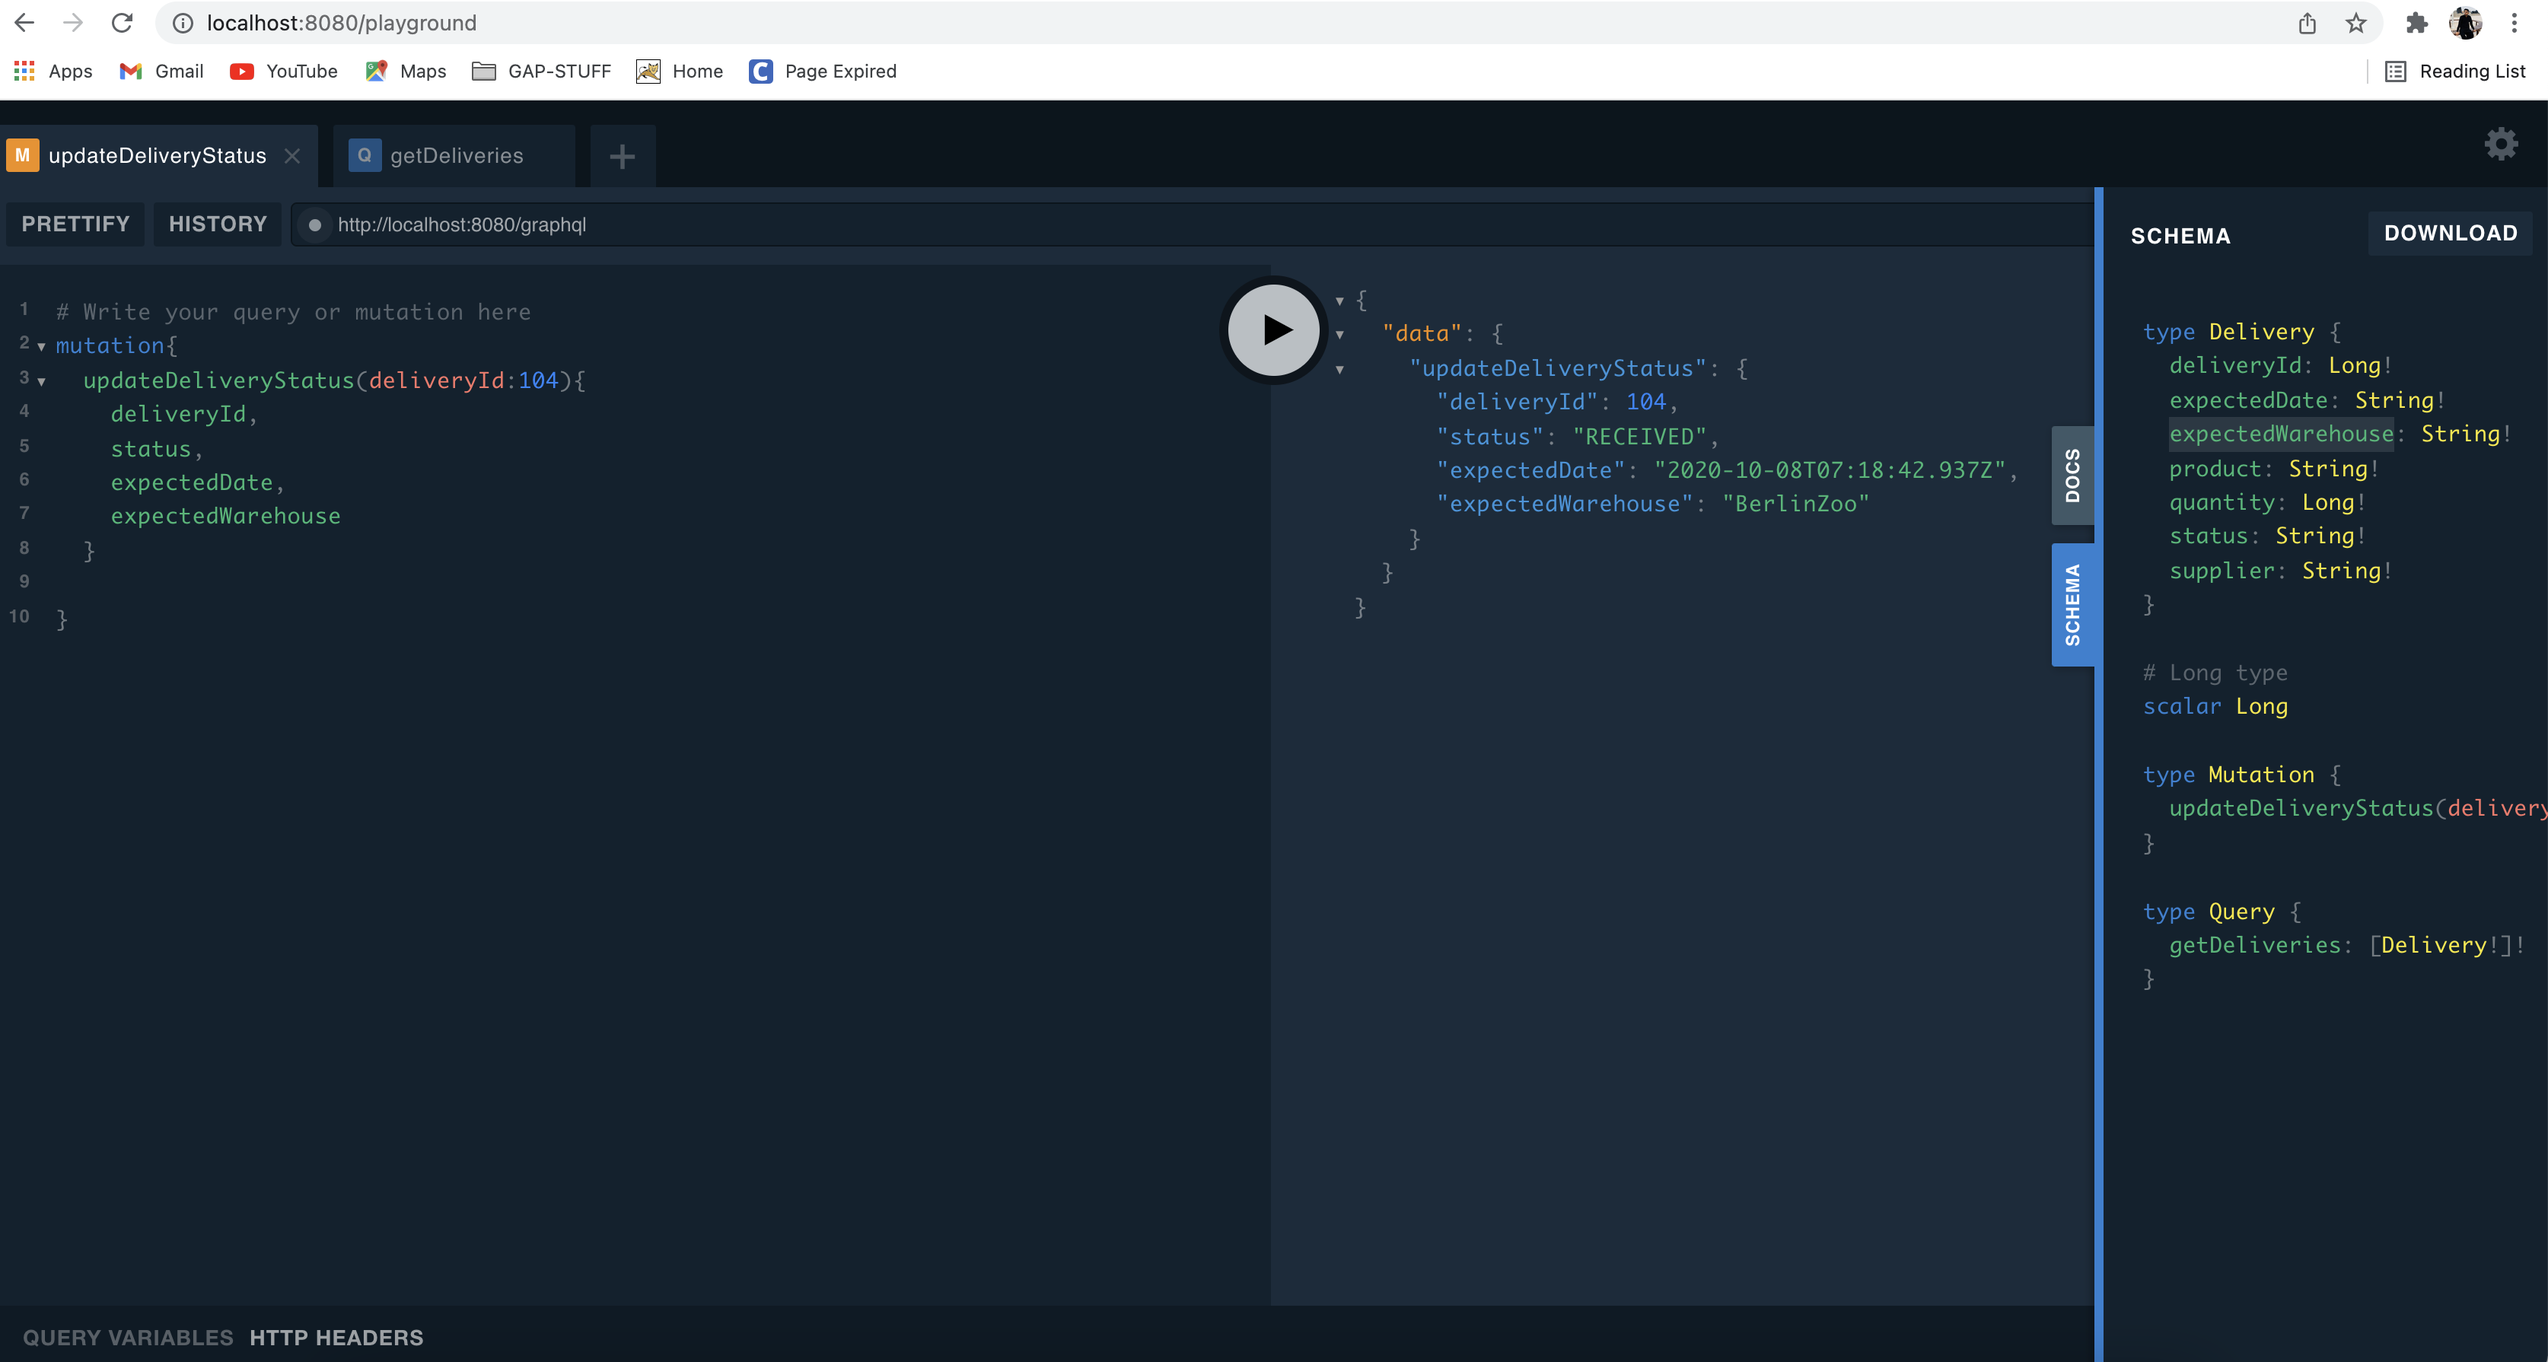
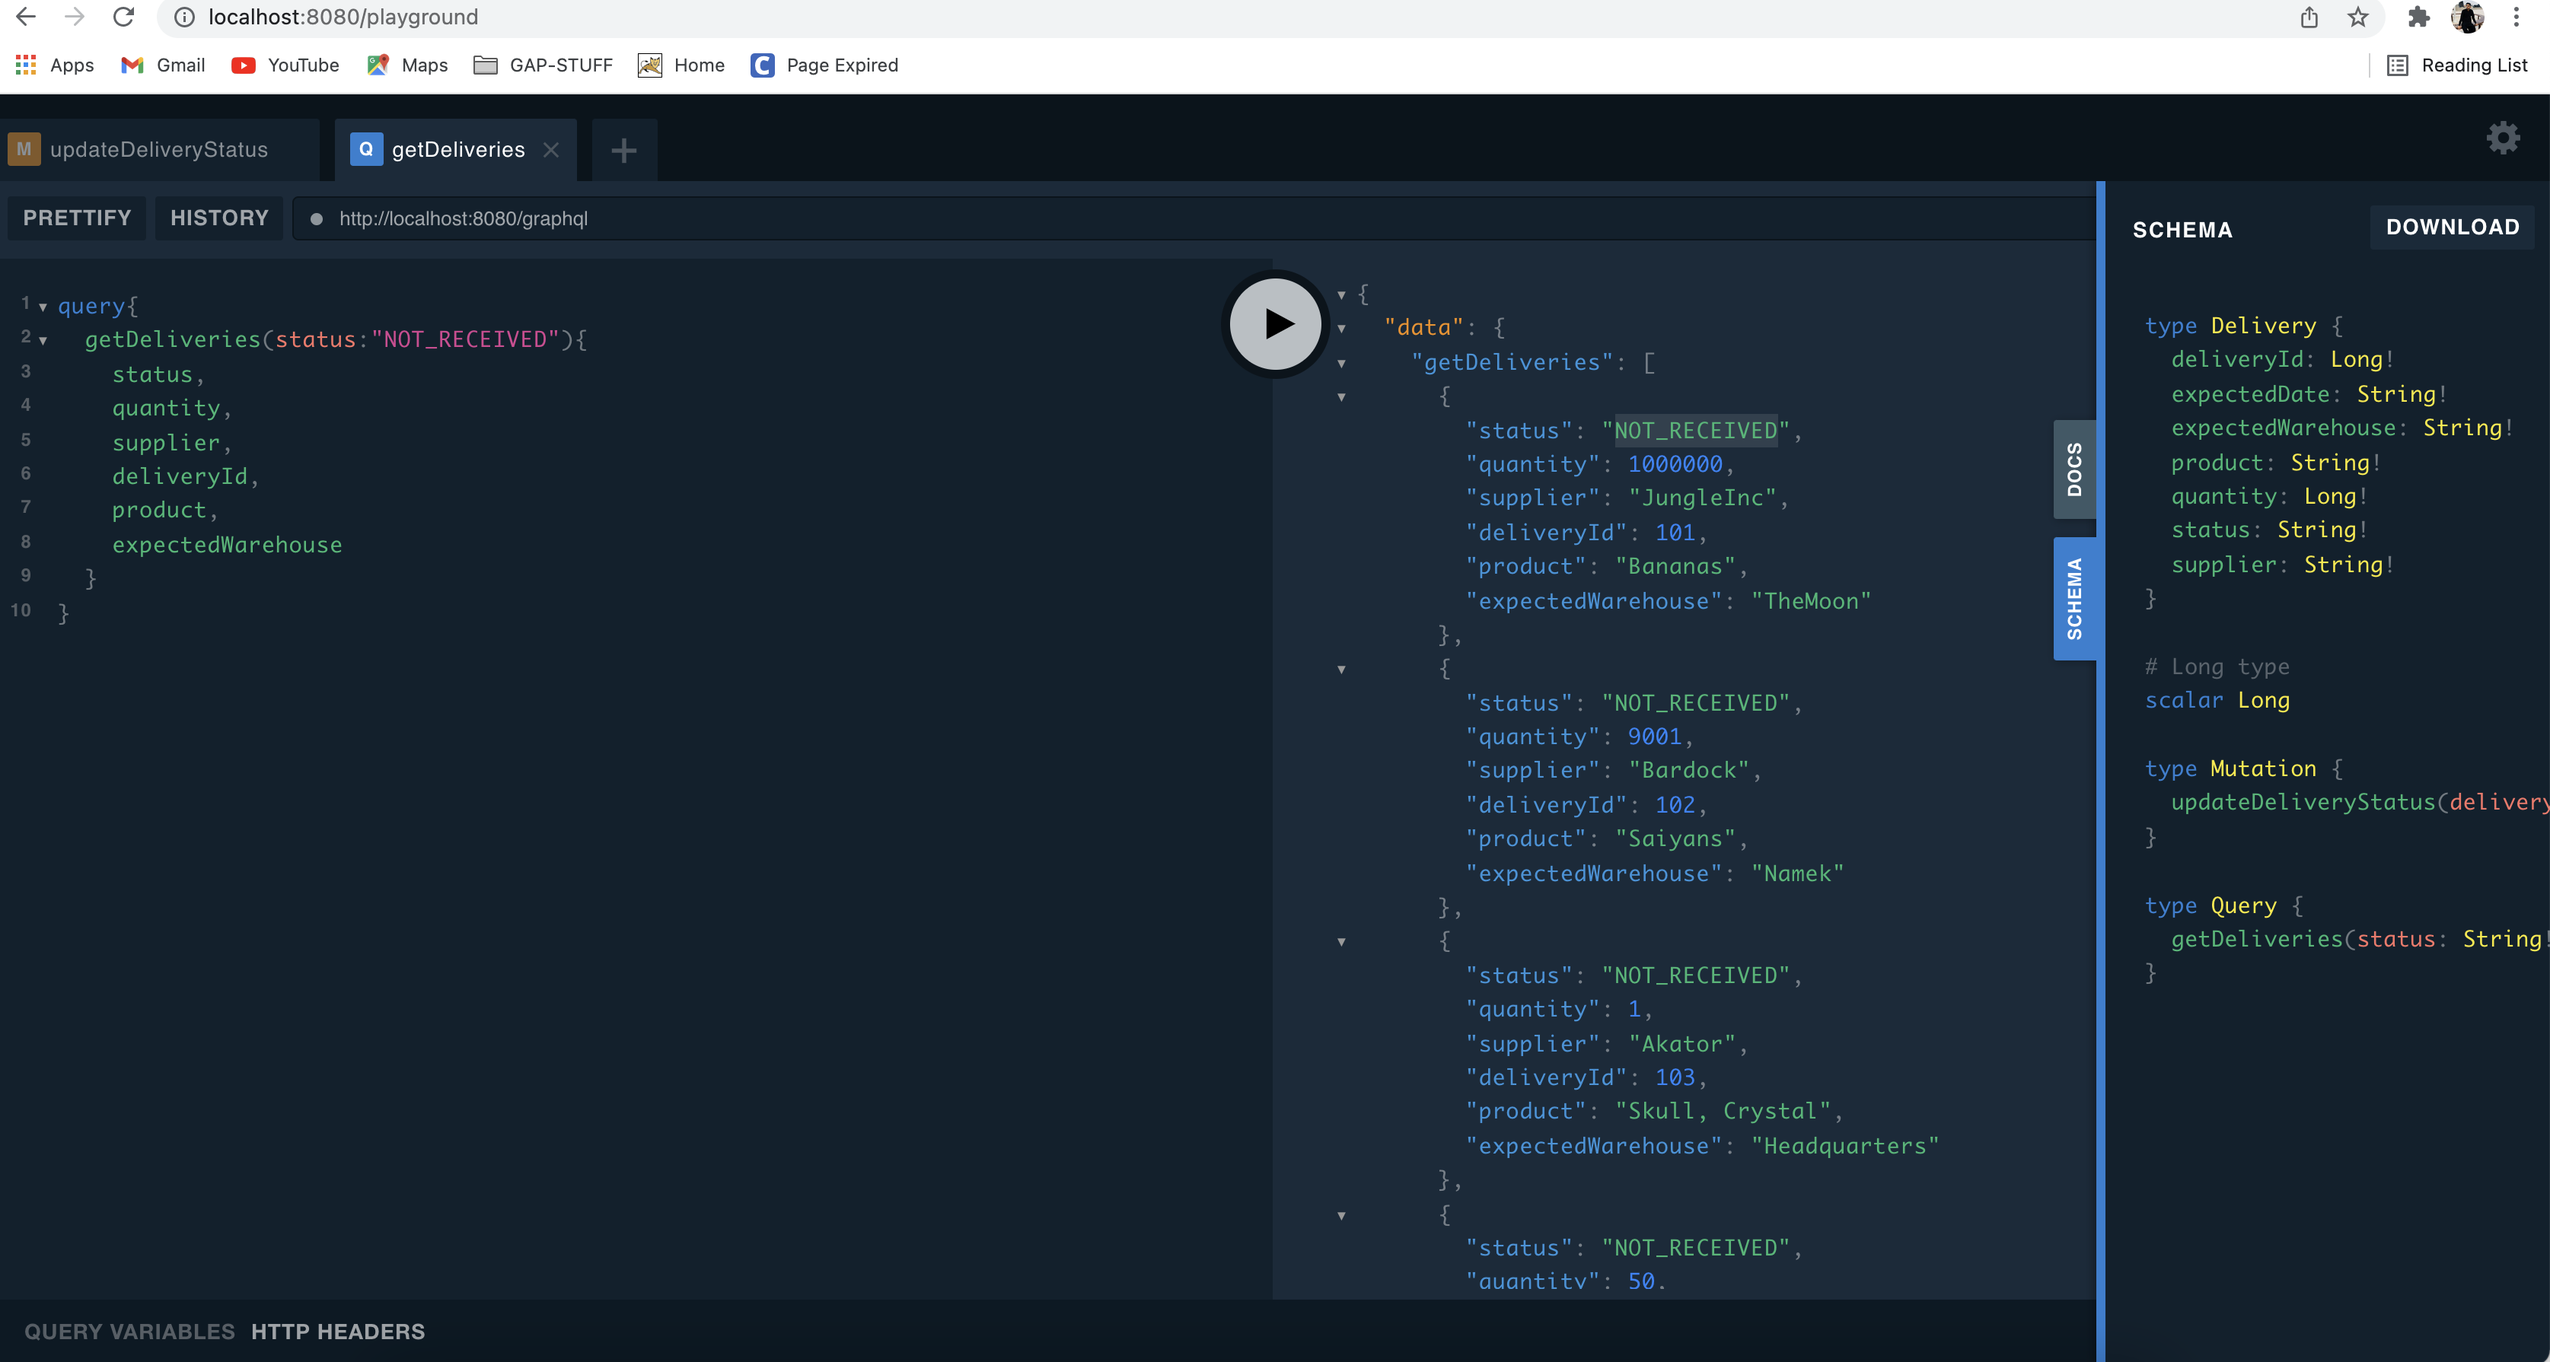
Refactored the code

diff --git a/src/test/kotlin/com/delivery/service/impl/DeliveryServiceImplTest.kt b/src/test/kotlin/com/delivery/service/impl/DeliveryServiceImplTest.kt
@@ -12,9 +12,9 @@ import reactor.core.publisher.Flux
 import reactor.core.publisher.Mono
 
 /**
- * Delivery service impl tests
+ * Delivery service impl test
  *
- * @constructor Create empty Delivery service impl tests
+ * @constructor Create empty Delivery service impl test
  */
 @SpringBootTest
 class DeliveryServiceImplTest {
@@ -22,11 +22,11 @@ class DeliveryServiceImplTest {
     private lateinit var deliveryServiceImpl: DeliveryServiceImpl
 
     /**
-     * Updates delivery status when not delivery found against id test.
+     * Test update delivery status when no delivery found against id expect delivery empty object.
      *
      */
     @Test
-    fun updateDeliveryStatusWhenNotDeliveryFoundAgainstIDTest() {
+    fun testUpdateDeliveryStatusWhenNoDeliveryFoundAgainstIDExpectDeliveryEmptyObject() {
         val repository = mock(DeliveryRepository::class.java)
         Mockito.`when`(repository.findById(Mockito.anyLong())).thenReturn(Mono.empty())
         runBlocking {
@@ -44,12 +44,13 @@ class DeliveryServiceImplTest {
         }
     }
 
+
     /**
-     * Update delivery status test
+     * Test update delivery status when delivery found against i d expect delivery object.
      *
      */
     @Test
-    fun updateDeliveryStatusTest() {
+    fun testUpdateDeliveryStatusWhenDeliveryFoundAgainstIDExpectDeliveryObject() {
         val repository = mock(DeliveryRepository::class.java)
         Mockito.`when`(repository.findById(Mockito.anyLong())).thenReturn(getMonoDelivery())
         Mockito.`when`(repository.save(Mockito.any())).thenReturn(getMonoDelivery())
@@ -70,17 +71,18 @@ class DeliveryServiceImplTest {
         }
     }
 
+
     /**
-     * Get deliveries test
+     * Test get deliveries with id expect list of deliveries.
      *
      */
     @Test
-    fun getDeliveriesTest() {
+    fun testGetDeliveriesWithIdExpectListOfDeliveries() {
         val repository = mock(DeliveryRepository::class.java)
         Mockito.`when`(repository.findAllByStatus(Mockito.anyString())).thenReturn(getFluxDelivery())
         runBlocking {
             deliveryServiceImpl = DeliveryServiceImpl(repository)
-            val service = deliveryServiceImpl.getDeliveries()
+            val service = deliveryServiceImpl.getDeliveries("RECEIVED")
             Assertions.assertNotNull(service)
             Assertions.assertNotNull(service.block())
             val delivery = service.block()

diff --git a/src/main/kotlin/com/delivery/service/impl/DeliveryServiceImpl.kt b/src/main/kotlin/com/delivery/service/impl/DeliveryServiceImpl.kt
@@ -9,7 +9,7 @@ import org.springframework.stereotype.Service
 import reactor.core.publisher.Mono
 
 /**
- * Delivery service impl.
+ * Delivery service impl that implementing the delivery service.
  *
  * @property deliveryRepository the delivery repository
  */
@@ -17,24 +17,24 @@ import reactor.core.publisher.Mono
 class DeliveryServiceImpl(private var deliveryRepository: DeliveryRepository) : DeliveryService {
 
     /** @inheritdoc */
-    override suspend fun getDeliveries(): Mono<List<Delivery>> {
-        return deliveryRepository.findAllByStatus(DeliveryStatus.NOT_RECEIVED.toString()).collectList()
+    override suspend fun getDeliveries(status:String): Mono<List<Delivery>> {
+        return deliveryRepository.findAllByStatus(status).collectList()
     }
 
     /** @inheritdoc */
     override suspend fun updateDeliveryStatus(deliveryId: Long): Mono<Delivery> {
         return getDeliveryDetailsWithId(deliveryId).map { data ->
-                val status = DeliveryUtil.getStatus(data.expectedDate)
-                if (DeliveryStatus.RECEIVED.toString().equals(status)) {
-                    data.status = status
-                    deliveryRepository.save(data).subscribe()
-                }
-                data
-            }.switchIfEmpty(Mono.just(Delivery(deliveryId, "", "", 0, "", "", "")))
+            val status = DeliveryUtil.getStatus(data.expectedDate)
+            if (DeliveryStatus.RECEIVED.toString().equals(status)) {
+                data.status = status
+                deliveryRepository.save(data).subscribe()
+            }
+            data
+        }.switchIfEmpty(Mono.just(Delivery(deliveryId, "", "", 0, "", "", "")))
     }
 
     /**
-     * Gets delivery details against the delivery id
+     * Gets delivery details against the delivery id.
      *
      * @param deliveryId the delivery id
      * @return the delivery details

diff --git a/src/test/kotlin/com/delivery/query/DeliveryQueryTest.kt b/src/test/kotlin/com/delivery/query/DeliveryQueryTest.kt
@@ -19,34 +19,36 @@ class DeliveryQueryTest {
 
     private lateinit var deliveryQuery: DeliveryQuery
 
+
     /**
-     * Verify delivery with delivery id test.
+     * Test get deliveries with received status then no delivery found.
      *
      */
     @Test
-    fun verifyDeliveryWithDeliveryIDTest() {
+    fun testGetDeliveriesWithReceivedStatusThenNoDeliveryFound() {
         runBlocking {
             val service = Mockito.mock(DeliveryServiceImpl::class.java)
-            Mockito.`when`(service.getDeliveries()).thenReturn(Mono.empty())
+            Mockito.`when`(service.getDeliveries(Mockito.anyString())).thenReturn(Mono.empty())
             deliveryQuery = DeliveryQuery(service)
-            val delivery = deliveryQuery.getDeliveries()
+            val delivery = deliveryQuery.getDeliveries("RECEIVED")
             Assertions.assertNotNull(delivery)
             Assertions.assertEquals(0, delivery.size)
         }
 
     }
 
+
     /**
-     * Verify delivery test
+     * Test get deliveries with received status then get list of deliveries.
      *
      */
     @Test
-    fun verifyDeliveryTest() {
+    fun testGetDeliveriesWithReceivedStatusThenGetListOfDeliveries() {
         runBlocking {
             val service = Mockito.mock(DeliveryServiceImpl::class.java)
-            Mockito.`when`(service.getDeliveries()).thenReturn(getDelivery())
+            Mockito.`when`(service.getDeliveries(Mockito.anyString())).thenReturn(getDelivery())
             deliveryQuery = DeliveryQuery(service)
-            val delivery = deliveryQuery.getDeliveries()
+            val delivery = deliveryQuery.getDeliveries("RECEIVED")
             Assertions.assertNotNull(delivery)
             Assertions.assertEquals(1, delivery.size)
             Assertions.assertEquals(101, delivery.get(0).deliveryId)

diff --git a/src/test/kotlin/com/delivery/mutation/DeliveryMutationTest.kt b/src/test/kotlin/com/delivery/mutation/DeliveryMutationTest.kt
@@ -12,21 +12,22 @@ import org.springframework.boot.test.context.SpringBootTest
 import reactor.core.publisher.Mono
 
 /**
- * Delivery mutation tests
+ * Delivery mutation test
  *
- * @constructor Create empty Delivery mutation tests
+ * @constructor Create empty Delivery mutation test
  */
 @SpringBootTest
 class DeliveryMutationTest {
 
     private lateinit var deliveryMutation: DeliveryMutation
 
+
     /**
-     * Verify delivery with delivery id test
+     * Test update delivery status with status expect empty delivery
      *
      */
     @Test
-    fun verifyDeliveryWithDeliveryIDTest() {
+    fun testUpdateDeliveryStatusWithStatusExpectEmptyDelivery() {
         runBlocking {
             val service = mock(DeliveryServiceImpl::class.java)
             `when`(service.updateDeliveryStatus(Mockito.anyLong())).thenReturn(getEmptyDelivery())
@@ -44,12 +45,13 @@ class DeliveryMutationTest {
 
     }
 
+
     /**
-     * Verify delivery test
+     * Test update delivery status with status expect delivery details
      *
      */
     @Test
-    fun verifyDeliveryTest() {
+    fun testUpdateDeliveryStatusWithStatusExpectDeliveryDetails() {
         runBlocking {
             val service = mock(DeliveryServiceImpl::class.java)
             `when`(service.updateDeliveryStatus(Mockito.anyLong())).thenReturn(getDelivery())

diff --git a/src/main/kotlin/com/delivery/query/DeliveryQuery.kt b/src/main/kotlin/com/delivery/query/DeliveryQuery.kt
@@ -7,8 +7,8 @@ import kotlinx.coroutines.reactive.awaitFirstOrDefault
 import org.springframework.stereotype.Component
 
 /**
- * Delivery Query that handles all the query details like to fetch all deliveries details that are received or not
- * received.
+ * Delivery Query that handles all the query details like
+ * to fetch all deliveries details that are received or not received.
  *
  * @property deliveryService  the delivery service
  */
@@ -16,11 +16,12 @@ import org.springframework.stereotype.Component
 class DeliveryQuery(private var deliveryService: DeliveryService) : Query {
 
     /**
-     * Gets all deliveries details that received or not received
+     * Gets all deliveries details that received or not received.
      *
-     * @return the list of deliveries details
+     * @param status the delivery status
+     * @return the list of deliveries details that are not received yet
      */
-    suspend fun getDeliveries(): List<Delivery> {
-        return deliveryService.getDeliveries().awaitFirstOrDefault(listOf())
+    suspend fun getDeliveries(status: String): List<Delivery> {
+        return deliveryService.getDeliveries(status).awaitFirstOrDefault(listOf())
     }
 }

diff --git a/src/main/kotlin/com/delivery/configuration/DatabaseConfiguration.kt b/src/main/kotlin/com/delivery/configuration/DatabaseConfiguration.kt
@@ -10,7 +10,7 @@ import org.springframework.r2dbc.connection.init.ConnectionFactoryInitializer
 import org.springframework.r2dbc.connection.init.ResourceDatabasePopulator
 
 /**
- * Database configuration that initialize the database configuration
+ * Database configuration that initialize the database configuration.
  *
  * @constructor Create empty Database configuration
  */
@@ -18,10 +18,9 @@ import org.springframework.r2dbc.connection.init.ResourceDatabasePopulator
 class DatabaseConfiguration {
 
     /**
-     * Initializer the database with ddl and dml quries
+     * Initializer the database with ddl and dml queries.
      *
-     * @param connectionFactory
-     * @return
+     * @param connectionFactory the connection factory
      */
     @Bean
     fun initializer(connectionFactory: ConnectionFactory): ConnectionFactoryInitializer {

diff --git a/src/main/kotlin/com/delivery/mutation/DeliveryMutation.kt b/src/main/kotlin/com/delivery/mutation/DeliveryMutation.kt
@@ -5,7 +5,6 @@ import com.delivery.service.DeliveryService
 import com.expediagroup.graphql.spring.operations.Mutation
 import kotlinx.coroutines.reactor.awaitSingle
 import org.springframework.stereotype.Component
-import org.springframework.web.bind.annotation.PathVariable
 
 /**
  * Delivery Mutation that updates the delivery status.
@@ -21,7 +20,7 @@ class DeliveryMutation(private var deliveryService: DeliveryService) : Mutation 
      * @param deliveryId the delivery id
      * @return the delivery details
      */
-    suspend fun updateDeliveryStatus(@PathVariable(value = "deliveryId") deliveryId: Long): Delivery {
+    suspend fun updateDeliveryStatus(deliveryId: Long): Delivery {
         val delivery = deliveryService.updateDeliveryStatus(deliveryId)
         return delivery.awaitSingle()
     }

diff --git a/src/main/kotlin/com/delivery/service/DeliveryService.kt b/src/main/kotlin/com/delivery/service/DeliveryService.kt
@@ -3,14 +3,20 @@ package com.delivery.service
 import com.delivery.model.Delivery
 import reactor.core.publisher.Mono
 
+/**
+ * Service that holds all the methods that interacting with repository.
+ *
+ * @constructor Create empty Delivery service
+ */
 interface DeliveryService {
 
     /**
      * Gets all deliveries details that are received or not received.
      *
+     * @param status the delivery status
      * @return the list of deliveries details
      */
-    suspend fun getDeliveries(): Mono<List<Delivery>>
+    suspend fun getDeliveries(status:String): Mono<List<Delivery>>
 
     /**
      * Updates delivery status against the delivery id.

diff --git a/src/main/kotlin/com/delivery/repository/DeliveryRepository.kt b/src/main/kotlin/com/delivery/repository/DeliveryRepository.kt
@@ -15,9 +15,9 @@ import reactor.core.publisher.Flux
 interface DeliveryRepository : ReactiveCrudRepository<Delivery, Long>{
 
     /**
-     * Find all deliveries by status like that are not received yet
+     * Finds all deliveries by status like that are not received yet.
      *
-     * @param status the status
+     * @param status the delivery status
      * @return the delivery details
      */
     fun findAllByStatus(status: String): Flux<Delivery>

diff --git a/src/main/kotlin/com/delivery/Application.kt b/src/main/kotlin/com/delivery/Application.kt
@@ -4,7 +4,7 @@ import org.springframework.boot.autoconfigure.SpringBootApplication
 import org.springframework.boot.runApplication
 
 /**
- *Main class that holds the main method
+ * Main class that holds the main method.
  *
  */
 @SpringBootApplication

diff --git a/src/main/kotlin/com/delivery/util/DeliveryUtil.kt b/src/main/kotlin/com/delivery/util/DeliveryUtil.kt
@@ -5,7 +5,7 @@ import java.time.LocalDateTime
 import java.time.format.DateTimeFormatter
 
 /**
- * DeliveryUtil that holds all the common validation.
+ * Utility class that holds all the common validation.
  *
  */
 class DeliveryUtil {

diff --git a/README.md b/README.md
@@ -15,3 +15,4 @@ of the API and the second is the schema generated by graphql-kotlin. If we click
 autogenerated API documentation.
 
 ![graphql-kotlin playground](src/main/resources/images/playground2.png)
+![graphql-kotlin playground](src/main/resources/images/playground3.png)
